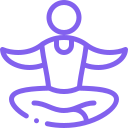
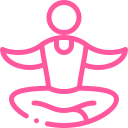
Alterando icones e suas cores

Changed region(s): [[0.0, 0.0, 1.0, 1.0]]

diff --git a/index.html b/index.html
@@ -144,7 +144,7 @@
                 <div class="col-lg-1"></div>
                 <div class="col-lg-5 col-md-12 col-sm-12 align-self-center mobile-bottom-fix-big"
                     data-scroll-reveal="enter right move 30px over 0.6s after 0.4s">
-                    <img src="assets/images/right-image.png" class="rounded img-fluid d-block mx-auto" alt="App">
+                    <img src="assets/images/immigrations.png" class="rounded img-fluid d-block mx-auto" alt="App">
                 </div>
             </div>
             <br>
@@ -156,7 +156,7 @@
             <div class="row">
                 <div class="col-lg-5 col-md-12 col-sm-12 align-self-center mobile-bottom-fix-big"
                     data-scroll-reveal="enter right move 30px over 0.6s after 0.4s">
-                    <img src="assets/images/right-image.png" class="rounded img-fluid d-block mx-auto" alt="App">
+                    <img src="assets/images/immigrations.png" class="rounded img-fluid d-block mx-auto" alt="App">
                 </div>
                 <div class="col-lg-1"></div>
                 <div class="col-lg-6 col-md-12 col-sm-12 align-self-center mobile-bottom-fix">
@@ -252,7 +252,7 @@
                 <div class="col-lg-4 col-md-6 col-sm-12">
                     <div class="blog-post-thumb">
                         <div class="img">
-                            <img src="assets/images/conection.png" alt="">
+                            <img src="assets/images/conectionss.png" alt="">
                         </div>
                         <div class="blog-content">
                             <h3>
@@ -267,7 +267,7 @@
                 <div class="col-lg-4 col-md-6 col-sm-12">
                     <div class="blog-post-thumb">
                         <div class="img">
-                            <img src="assets/images/business.png" alt="">
+                            <img src="assets/images/lamp.png" alt="">
                         </div>
                         <div class="blog-content">
                             <h3>
